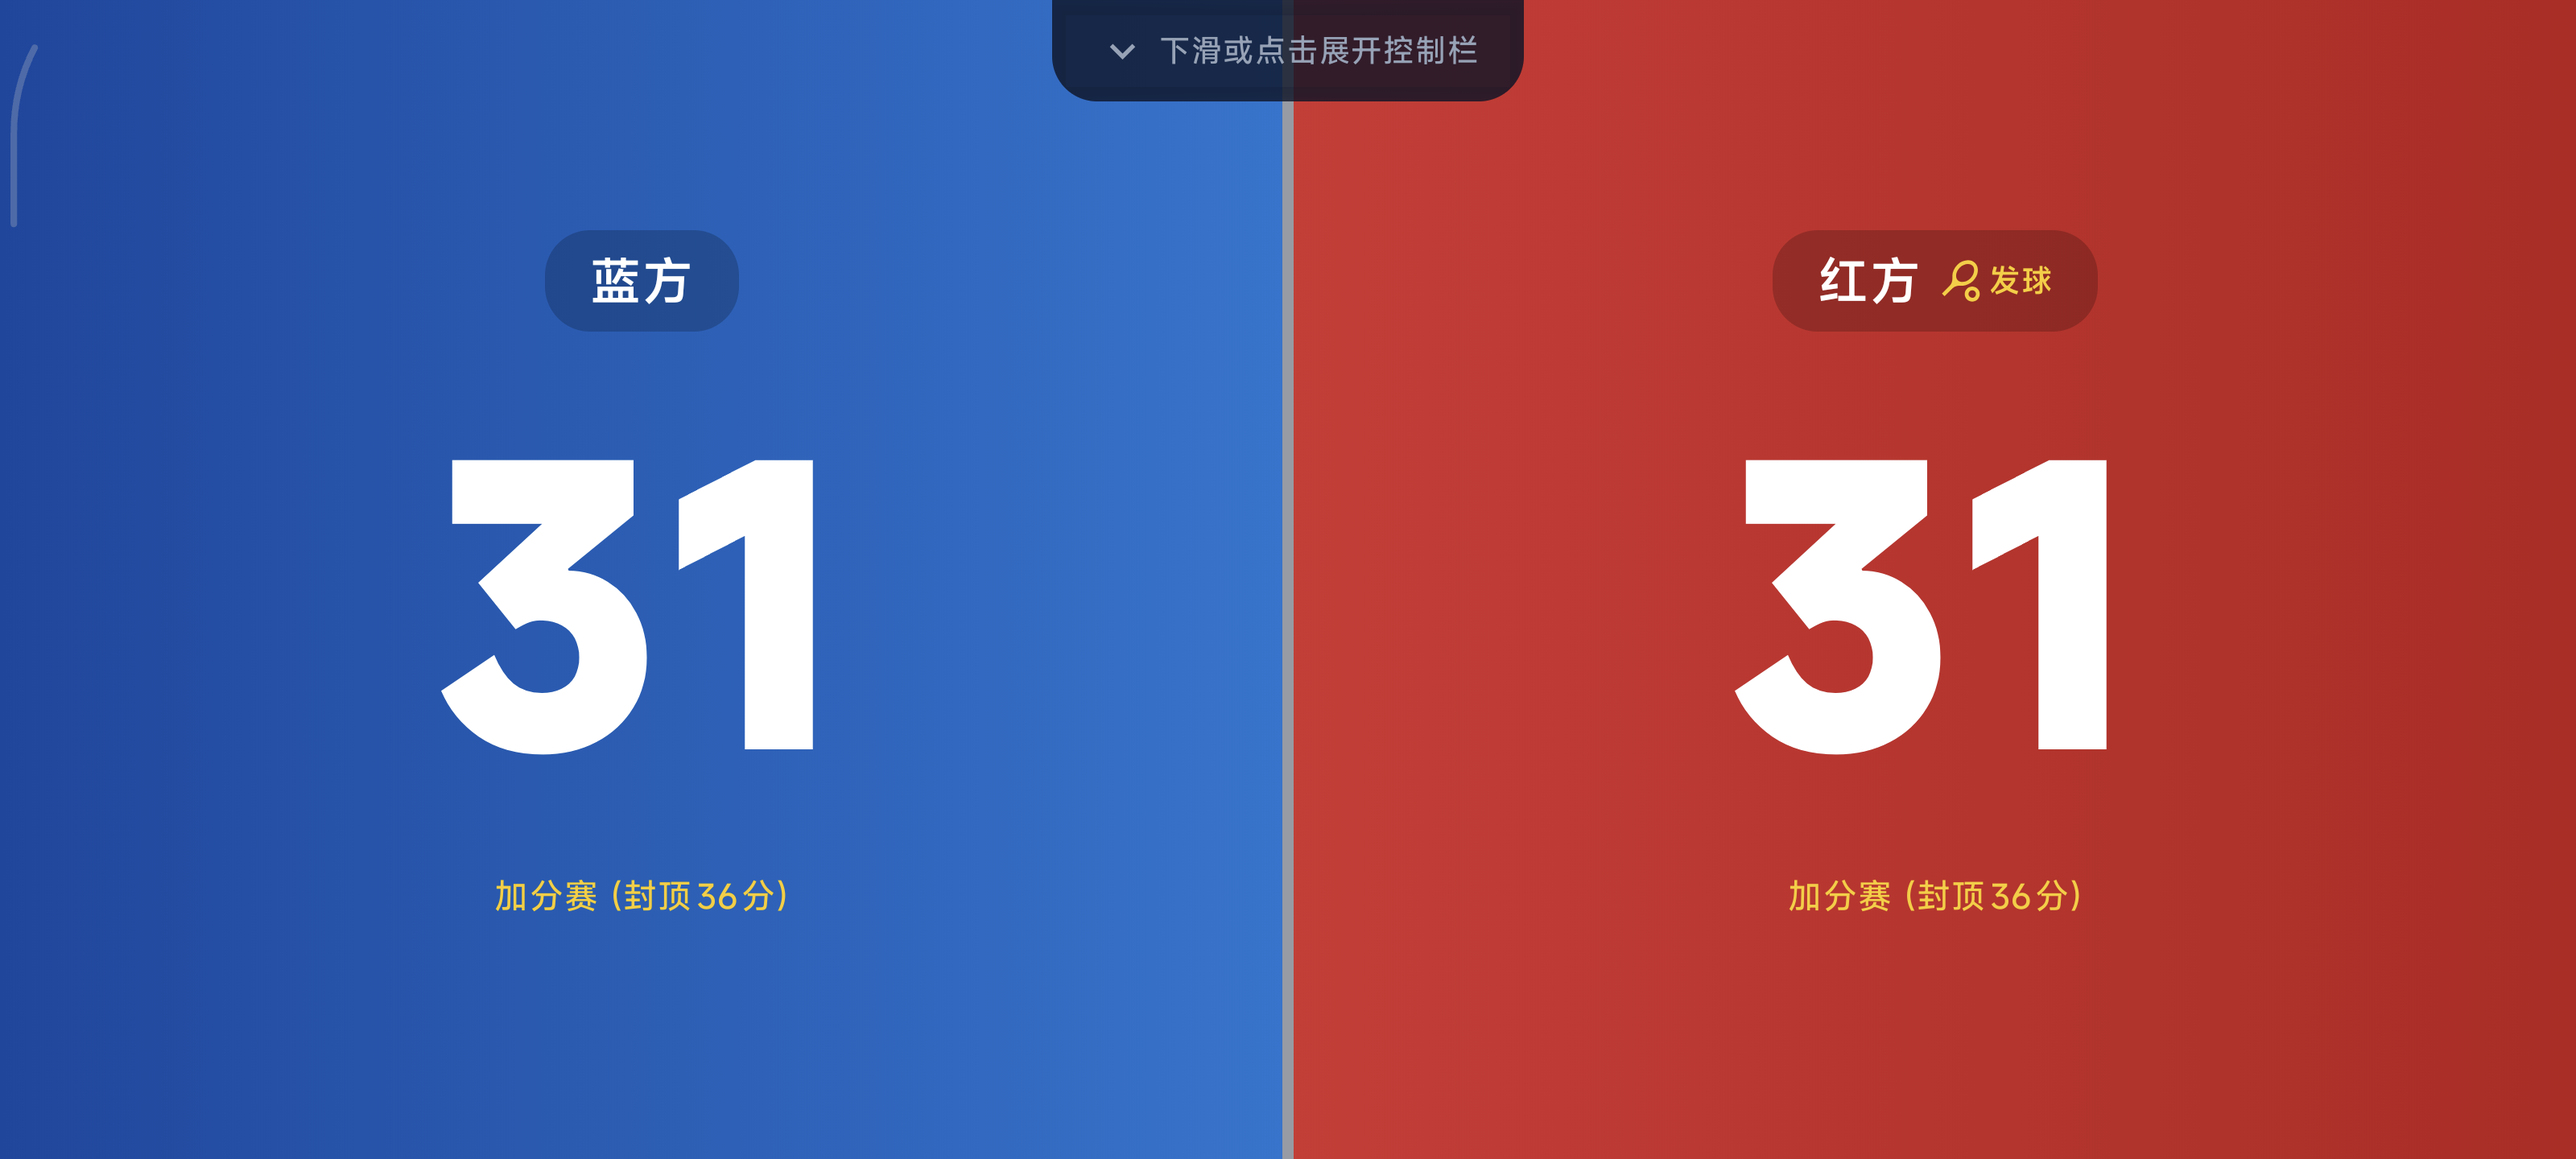
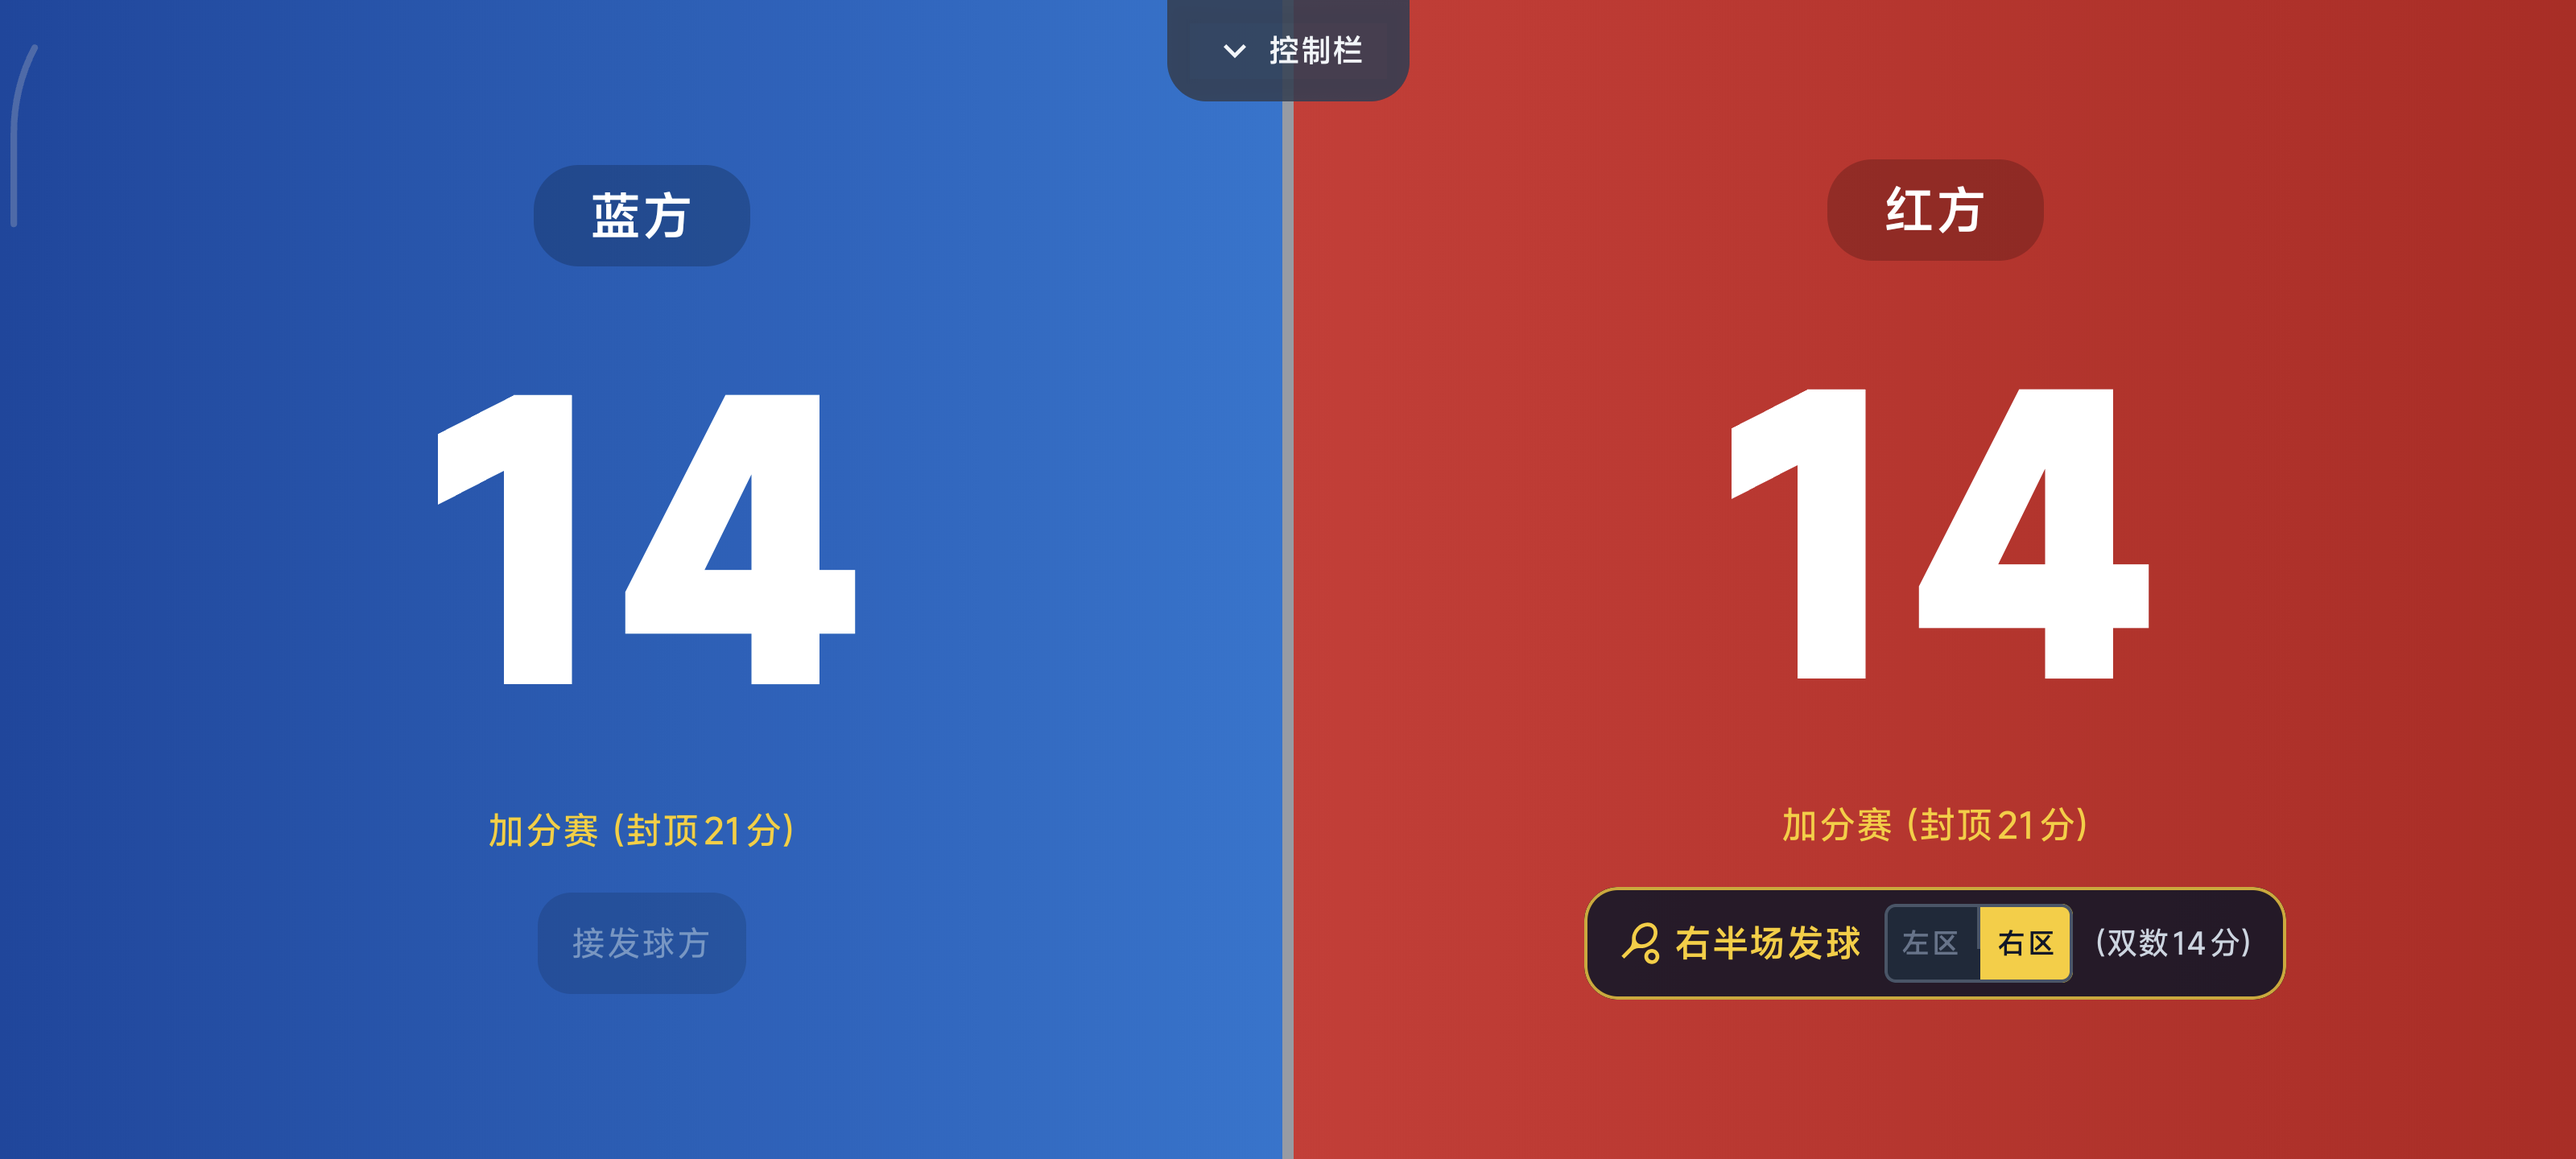
docs: update screenshots and README with Neo-Pop Arcade UI

diff --git a/README.md b/README.md
@@ -6,31 +6,32 @@
 
 ## 🌟 核心特性
 
-- **📱 赛制选择与自适应布局**：
-  - 支持 **15 分制** 与 **31 分制** 直选。
-  - 支持主页横屏与竖屏自适应切换，大卡片一目了然。
-  - 支持自定义对战双方名称（默认：蓝方 VS 红方）。
-- **🏸 专业羽毛球加分赛（Deuce）与封顶机制**：
+- **🎨 Neo-Pop Arcade 新潮街机视觉风格**：
+  - 复古波点背景与暖米白主基调（#FBF7EE），搭配 3.2dp 粗黑轮廓（#1E1B18）与立体投影。
+  - 支持 **15 分竞速局** 与 **31 分大师赛** 直选，横竖屏自适应切换。
+  - 赛制卡片支持物理实体 3D 下压回弹反馈，打击感十足。
+  - 支持快捷修改对战队伍名称（默认：蓝方 VS 红方）。
+- **🏸 专业羽毛球发球区指示与加分赛（Deuce）机制**：
+  - **左单右双原则（0算双数）**：自动实时指示当前发球方是在左区还是右区发球。
   - **15 分制**：战至 14-14 平后进入加分赛，须净胜 2 分胜出，**21 分封顶**。
   - **31 分制**：战至 30-30 平后进入加分赛，须净胜 2 分胜出，**36 分封顶**。
-  - 触发加分赛时自动提示当前赛点与封顶状态。
-- **⚡ 横屏沉浸式极简计分**：
+  - 触发加分赛时自动提示当前封顶分。
+- **⚡ 横屏沉浸式极简计分与羽毛球扣杀特效**：
   - 进入比赛自动锁定全屏横屏模式，左右双色高对比分区（科技蓝 vs 激情红）。
-  - 单击大色块直接加分，配有触感振动反馈与数字弹性缩放回弹动画。
-  - 显示发球方指示标（🏸 发球）。
+  - 单击大色块触发羽毛球飞行动画与扣杀爆炸特效，支持**多羽毛球并发快速连击**，不打断飞行动画。
 - **🎛 顶部居中多功能悬浮控制栏**：
-  - 双方独立 【+1 / -1】 加减分按钮。
-  - 支持【撤销 (Undo)】、【换边 (Swap)】、【重置局分 (Reset)】。
-  - **3.5 秒无触摸自动隐藏**，手指下滑或点击指示条即可滑出。
-- **🏆 胜利结算弹窗**：
-  - 比赛达到胜负条件后自动弹出获胜奖杯弹窗。
-  - 清晰展示双方最终比分，提供【主菜单】、【换边再战】、【再来一局】一键重置。
+  - 折叠为顶部防误触矩形，点击后展开。
+  - 双方独立 【+1 / -1】 加减分按钮，支持【撤销 (Undo)】、【换边 (Swap)】、【重置局分 (Reset)】。
+  - **3.5 秒无触摸自动收起**。
+- **🏆 街机风胜利结算弹窗**：
+  - 比赛胜出时自动触发一次性礼炮喷射彩色缎带与彩屑效果（🎉）。
+  - 专属 Neo-Pop 3D 实体按键【主菜单】、【换边再战】、【再来一局】。
 
 ---
 
 ## 📸 应用界面截图
 
-| 主页赛制选择（横屏自适应） | 比赛计分与加分赛提示 | 比赛胜利结算弹窗 |
+| 主页赛制选择（Neo-Pop 街机风） | 比赛计分与加分赛提示 | 比赛胜利结算弹窗（3D 街机风） |
 | :---: | :---: | :---: |
 | ![主页](screenshot_home.png) | ![计分界面](screenshot_match_scored.png) | ![胜利结算](screenshot_winner_fixed.png) |
 
